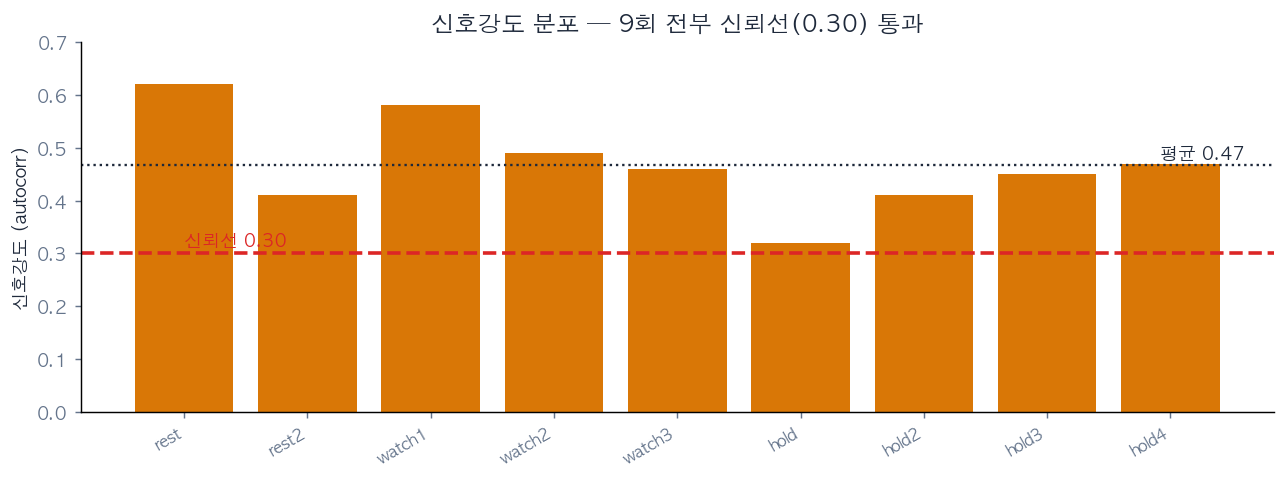
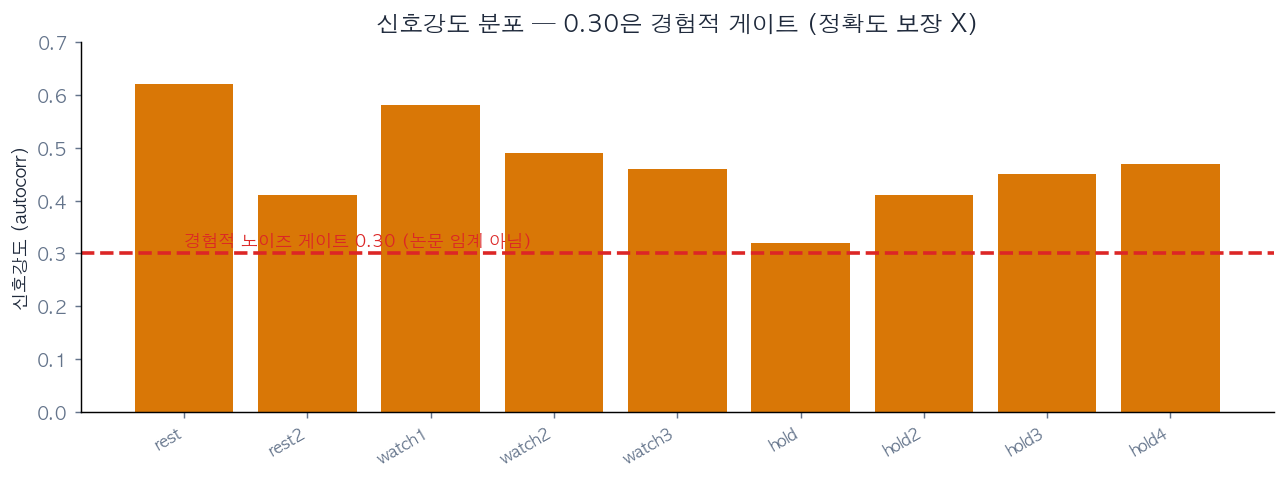
docs(csi): 애매한 기준을 논문 근거로 교체
- 한계: 워치(미검증) 비교 → CSI SDNN 50~183ms vs 정상 20~50ms
  (Shaffer & Ginsberg 2017) = 최대 3.7배 범위 밖, 논문 근거
- csi_sdnn_vs_norm.png 신규 (전 측정 SDNN vs 정상범위 밴드)
- 강도 0.30 "신뢰선" → "경험적 게이트(논문 임계 아님)" 정직 정정
- z-score 2σ/3σ(통계 표준)·30일 롤링 baseline(이상탐지 표준) 근거 표기

Changed region(s): [[0.2797, 0.0312, 0.777, 0.0938], [0.1554, 0.4688, 0.404, 0.5312], [0.9013, 0.3125, 0.9635, 0.3438]]

diff --git a/esp32/docs/presentation/index.html b/esp32/docs/presentation/index.html
@@ -249,9 +249,9 @@
       <div class="col">
         <div class="tag" style="background:#fef9c3;color:var(--caution)">△ 측정은 됨 — 정확도는 별개</div>
         <ul class="feat" style="margin-top:8px">
-          <li>9회 측정 전부 <b>신호 수신 성공</b> (강도 ≥ 0.30)</li>
+          <li>9회 전부 신호 수신 — <b>0.30은 경험적 게이트</b> (논문 임계 아님)</li>
           <li><b>신호 잡힘 ≠ 정확</b> — 통제 밖 정확도는 미검증</li>
-          <li>reliable = "측정 시도 가치 있음"일 뿐, 정답 보장 아님</li>
+          <li>품질-선택 자체는 논문 계열(HSR·SDNN선택), <b>임계값만 우리 경험값</b></li>
         </ul>
         <img src="img/c_strength_dist.png" class="mimg" style="margin-top:auto;max-height:32vh">
       </div>
@@ -267,12 +267,12 @@
       <div class="col">
         <div class="tag" style="background:#fee2e2;color:var(--danger)">⚠️ 한계</div>
         <ul class="feat" style="margin-top:8px">
-          <li><b>HRV 절대값(SDNN ms) 불가</b> — 워치 대비 2~3배 부풀림</li>
-          <li>분석 방법 바꾸면 또 달라짐(50~175ms) = 절대값 못 믿음</li>
+          <li><b>HRV 절대값(SDNN ms) 불가</b> — CSI 50~183ms vs <b>정상 단기 20~50ms</b>(Shaffer&amp;Ginsberg 2017) = 최대 3.7배 범위 밖</li>
+          <li>방법 바꿔도 100~180ms대 = <b>일관되게 비정상</b></li>
           <li>일상 HR 5~18bpm 오차 · <b>최강신호 선택 편향</b> 인정</li>
           <li>원인: 박동단위 정제(quotient)는 <b>한 칩 안테나 2개</b> 필요</li>
         </ul>
-        <img src="img/watch_vs_csi.png" class="mimg" style="margin-top:auto;max-height:30vh">
+        <img src="img/csi_sdnn_vs_norm.png" class="mimg" style="margin-top:auto;max-height:32vh">
       </div>
       <div class="col">
         <div class="tag" style="background:#dcfce7;color:var(--ok)">→ 방향</div>
@@ -280,7 +280,7 @@
           <li>① <b>추세 z-score 전환 — 이미 작동</b> (자율신경 변화 = 신청서 핵심)</li>
           <li>② <b>다중안테나 PoC</b> (QCA9300/AX210) — 절대 HRV 검증</li>
           <li>③ <b>외장 지향성 안테나</b>(WROOM-1U) — 일상 HR 정확도 ↑</li>
-          <li>④ 30일 베이스라인 — z-score 신뢰도 ↑</li>
+          <li>④ <b>30일 롤링 baseline</b>(이상탐지 표준) + <b>z-score 2σ/3σ</b>(통계 표준)로 기준 근거 정립</li>
         </ul>
         <div class="card2 next" style="margin-top:auto"><b>핵심</b> — "안 되는 게 아니라, 절대 HRV만 단일안테나로 어렵다. 추세로 우회 + 하드웨어로 확장."</div>
       </div>